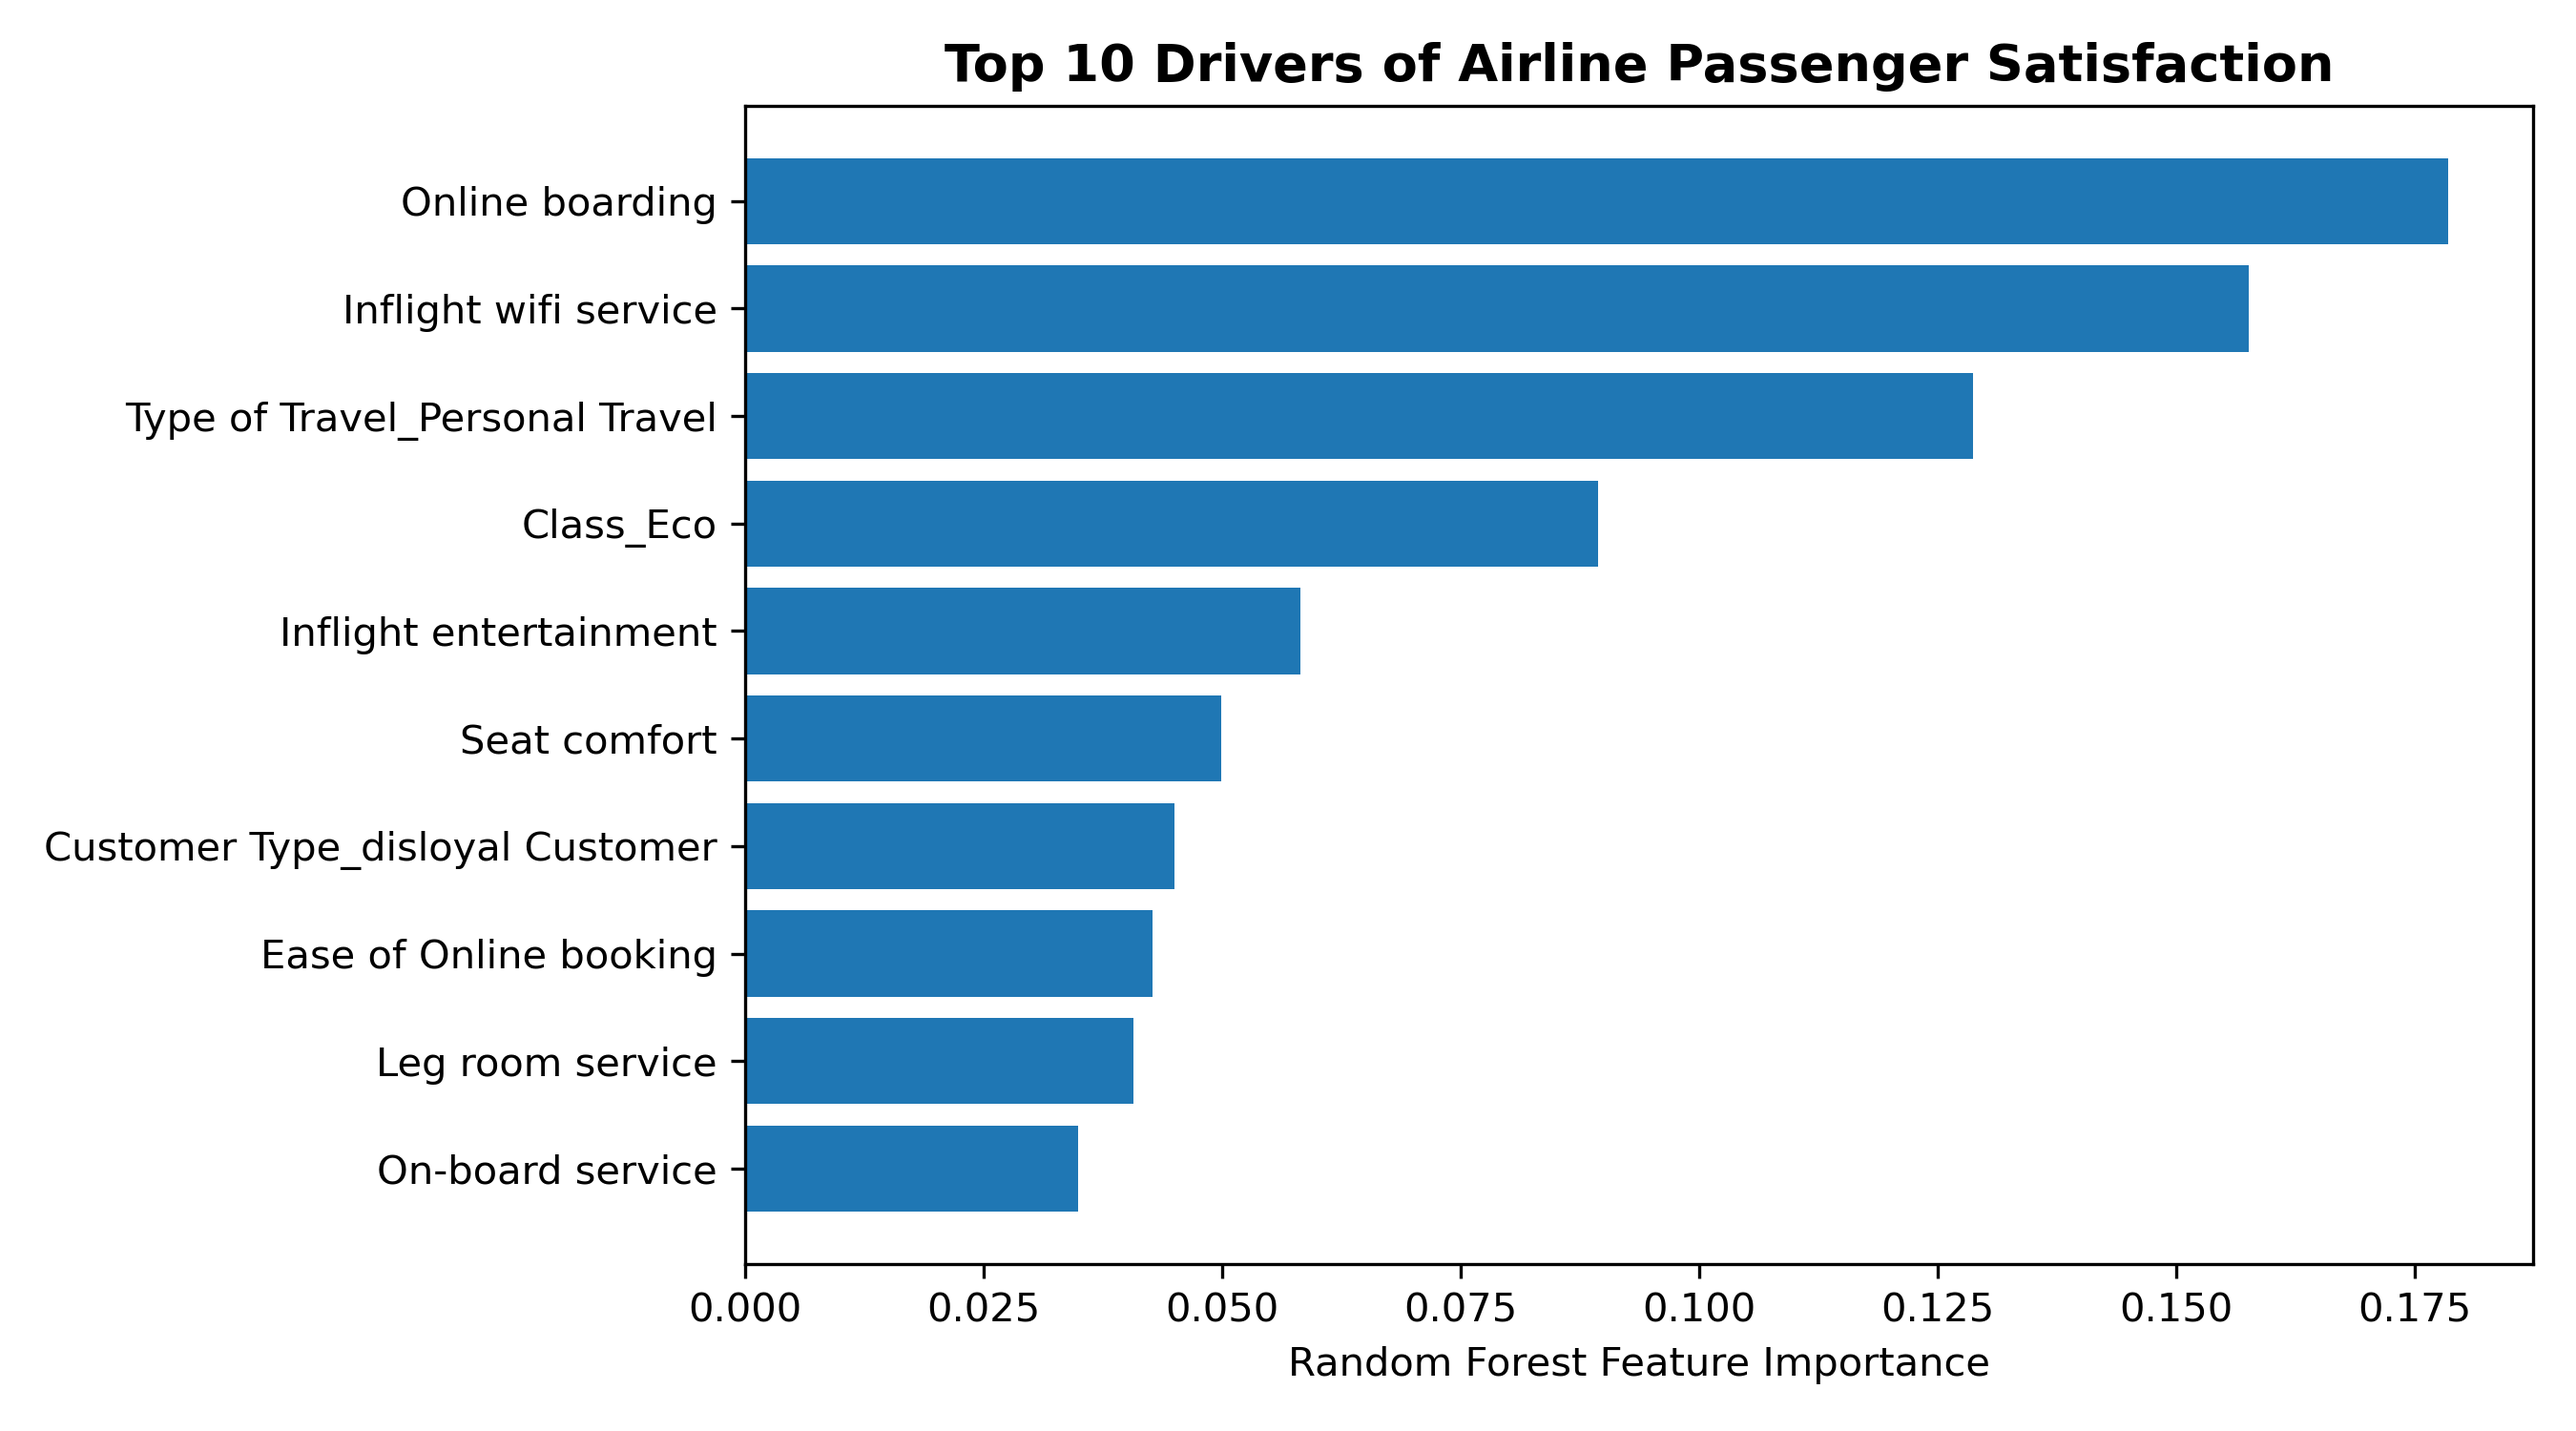
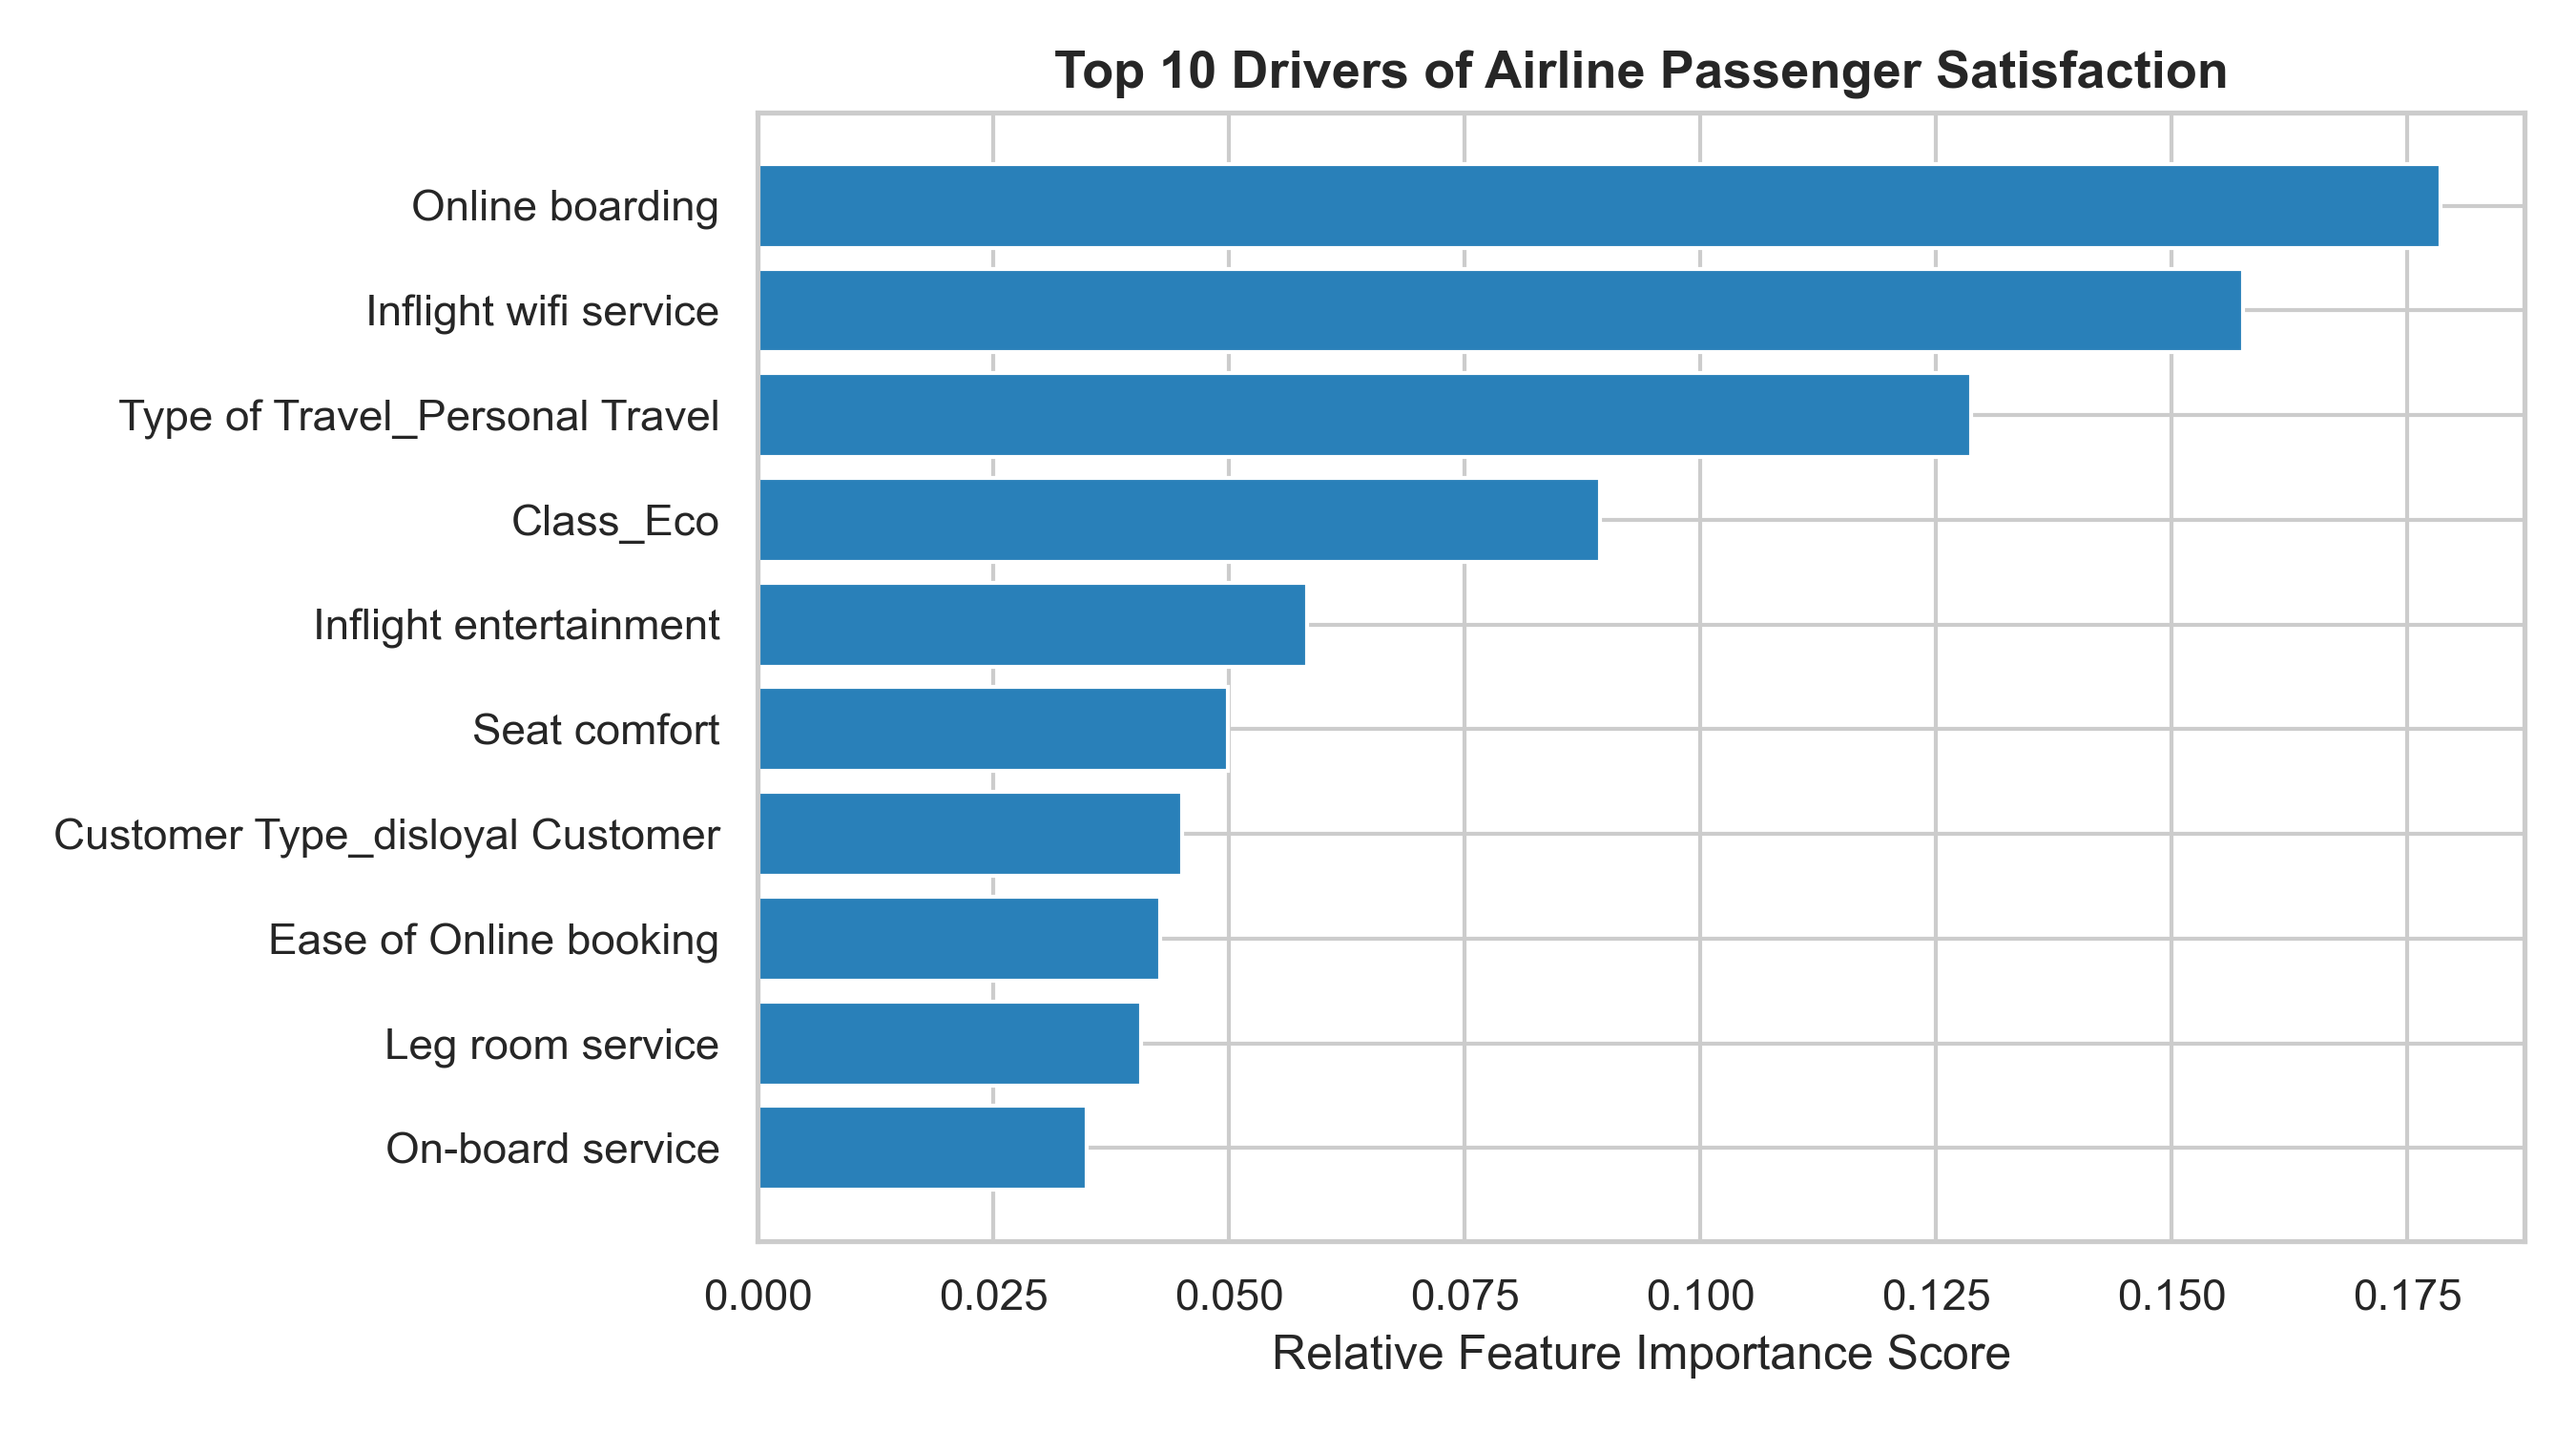
feat: complete eda suite and model diagnostic charts

diff --git a/src/train.py b/src/train.py
@@ -3,13 +3,14 @@ import joblib
 import pandas as pd
 import numpy as np
 import matplotlib.pyplot as plt
+import seaborn as sns
 from sklearn.model_selection import train_test_split
 from sklearn.preprocessing import StandardScaler, OneHotEncoder
 from sklearn.compose import ColumnTransformer
 from sklearn.pipeline import Pipeline
 from sklearn.impute import SimpleImputer
 from sklearn.ensemble import RandomForestClassifier
-from sklearn.metrics import classification_report, roc_auc_score
+from sklearn.metrics import classification_report, roc_auc_score, confusion_matrix
 
 # Ensure output directories exist
 os.makedirs("models", exist_ok=True)
@@ -17,21 +18,46 @@ os.makedirs("assets", exist_ok=True)
 
 # 1. Load Data
 df = pd.read_csv("data/train.csv")
-
-# Clean unneeded index columns
 drop_cols = [c for c in ['Unnamed: 0', 'id'] if c in df.columns]
 df = df.drop(columns=drop_cols)
 
-# Target: 1 for satisfied, 0 for neutral or dissatisfied
+# Target Definition: 1 = Satisfied, 0 = Neutral / Dissatisfied
 df['target'] = (df['satisfaction'] == 'satisfied').astype(int)
+
+# Set visual styling
+sns.set_theme(style="whitegrid")
+
+# GRAPH 1: Target Distribution Across Travel Classes
+plt.figure(figsize=(8, 5))
+order_classes = ['Eco', 'Eco Plus', 'Business']
+sns.countplot(data=df, x='Class', hue='satisfaction', order=order_classes, palette=['#e74c3c', '#2ecc71'])
+plt.title("Passenger Satisfaction by Flight Cabin Class", fontsize=13, fontweight='bold')
+plt.xlabel("Cabin Class")
+plt.ylabel("Number of Passengers")
+plt.legend(title="Satisfaction", labels=['Neutral / Dissatisfied', 'Satisfied'])
+plt.tight_layout()
+plt.savefig("assets/target_distribution_by_class.png", dpi=300)
+plt.close()
+
+# GRAPH 2: Delay Impact (Arrival Delay <= 120 mins)
+plt.figure(figsize=(9, 5))
+delay_subset = df[df['Arrival Delay in Minutes'] <= 120].dropna(subset=['Arrival Delay in Minutes'])
+sns.kdeplot(data=delay_subset, x='Arrival Delay in Minutes', hue='satisfaction', 
+            common_norm=False, fill=True, palette=['#e74c3c', '#2ecc71'], alpha=0.3)
+plt.title("Arrival Delay Density: Satisfied vs. Dissatisfied Passengers", fontsize=13, fontweight='bold')
+plt.xlabel("Arrival Delay (Minutes)")
+plt.ylabel("Density")
+plt.tight_layout()
+plt.savefig("assets/flight_delay_vs_satisfaction.png", dpi=300)
+plt.close()
+
+# 2. Build Pipeline
 X = df.drop(columns=['satisfaction', 'target'])
 y = df['target']
 
-# Identify feature types
 cat_cols = X.select_dtypes(include=['object']).columns.tolist()
 num_cols = X.select_dtypes(include=['int64', 'float64']).columns.tolist()
 
-# 2. Build Preprocessor Pipeline
 numeric_transformer = Pipeline(steps=[
     ('imputer', SimpleImputer(strategy='median')),
     ('scaler', StandardScaler())
@@ -49,18 +75,18 @@ preprocessor = ColumnTransformer(
     ]
 )
 
-# 3. Stratified 80/20 Train-Test Split
+# 3. Stratified Split (80/20)
 X_train, X_test, y_train, y_test = train_test_split(
     X, y, test_size=0.2, random_state=42, stratify=y
 )
 
-# 4. Model Pipeline & Fitting
+# 4. Train Model
 rf_pipeline = Pipeline(steps=[
     ('preprocessor', preprocessor),
     ('classifier', RandomForestClassifier(n_estimators=100, max_depth=12, random_state=42, n_jobs=-1))
 ])
 
-print("Training Random Forest Classifier on 83,000+ records...")
+print("Fitting Random Forest Classifier on training partition...")
 rf_pipeline.fit(X_train, y_train)
 
 # 5. Evaluate
@@ -71,11 +97,24 @@ print("\n=== Model Performance ===")
 print(classification_report(y_test, y_pred, target_names=['Dissatisfied/Neutral', 'Satisfied']))
 print(f"ROC-AUC Score: {roc_auc_score(y_test, y_proba):.4f}")
 
-# 6. Save Reproducible Handoff Artifact (.pkl)
+# Save fitted artifact (.pkl)
 joblib.dump(rf_pipeline, "models/airline_satisfaction_pipeline.pkl")
 print("Saved model artifact to models/airline_satisfaction_pipeline.pkl")
 
-# 7. Generate Feature Importance Visual Asset
+# GRAPH 3: Confusion Matrix Heatmap
+cm = confusion_matrix(y_test, y_pred)
+plt.figure(figsize=(6, 5))
+sns.heatmap(cm, annot=True, fmt='d', cmap='Blues', 
+            xticklabels=['Dissatisfied', 'Satisfied'], 
+            yticklabels=['Dissatisfied', 'Satisfied'])
+plt.title("Random Forest Confusion Matrix", fontsize=12, fontweight='bold')
+plt.xlabel("Predicted Label")
+plt.ylabel("True Label")
+plt.tight_layout()
+plt.savefig("assets/confusion_matrix_heatmap.png", dpi=300)
+plt.close()
+
+# GRAPH 4: Top 10 Drivers of Satisfaction
 cat_encoder = rf_pipeline.named_steps['preprocessor'].named_transformers_['cat'].named_steps['onehot']
 encoded_cat_names = list(cat_encoder.get_feature_names_out(cat_cols))
 all_features = num_cols + encoded_cat_names
@@ -84,10 +123,11 @@ importances = rf_pipeline.named_steps['classifier'].feature_importances_
 top_indices = np.argsort(importances)[-10:]
 
 plt.figure(figsize=(9, 5))
-plt.barh([all_features[i] for i in top_indices], importances[top_indices], color='#1f77b4')
+plt.barh([all_features[i] for i in top_indices], importances[top_indices], color='#2980b9')
 plt.title("Top 10 Drivers of Airline Passenger Satisfaction", fontsize=13, fontweight='bold')
-plt.xlabel("Random Forest Feature Importance")
+plt.xlabel("Relative Feature Importance Score")
 plt.tight_layout()
 plt.savefig("assets/satisfaction_feature_importance.png", dpi=300)
 plt.close()
-print("Saved chart to assets/satisfaction_feature_importance.png")
+
+print("\nAll 4 presentation charts saved to 'assets/' directory.")
